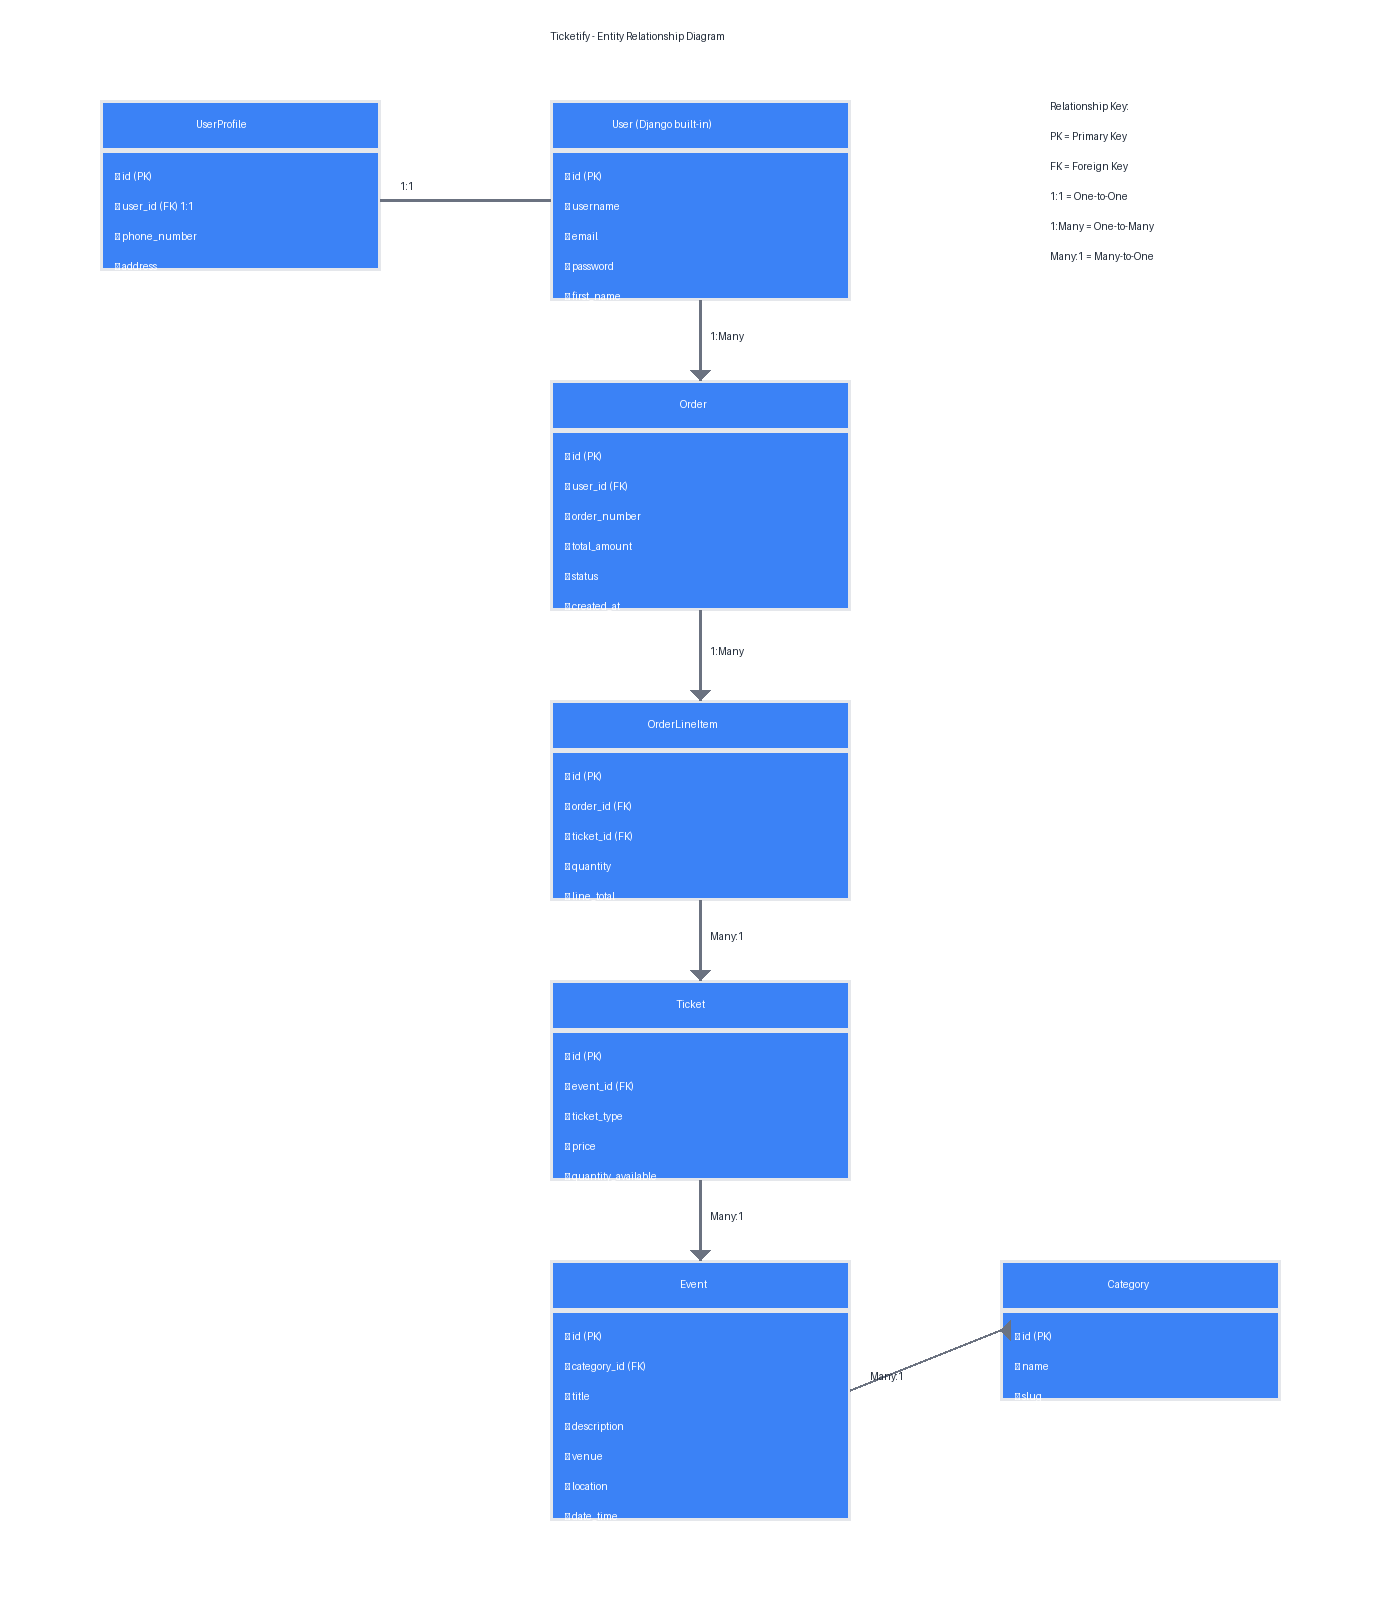
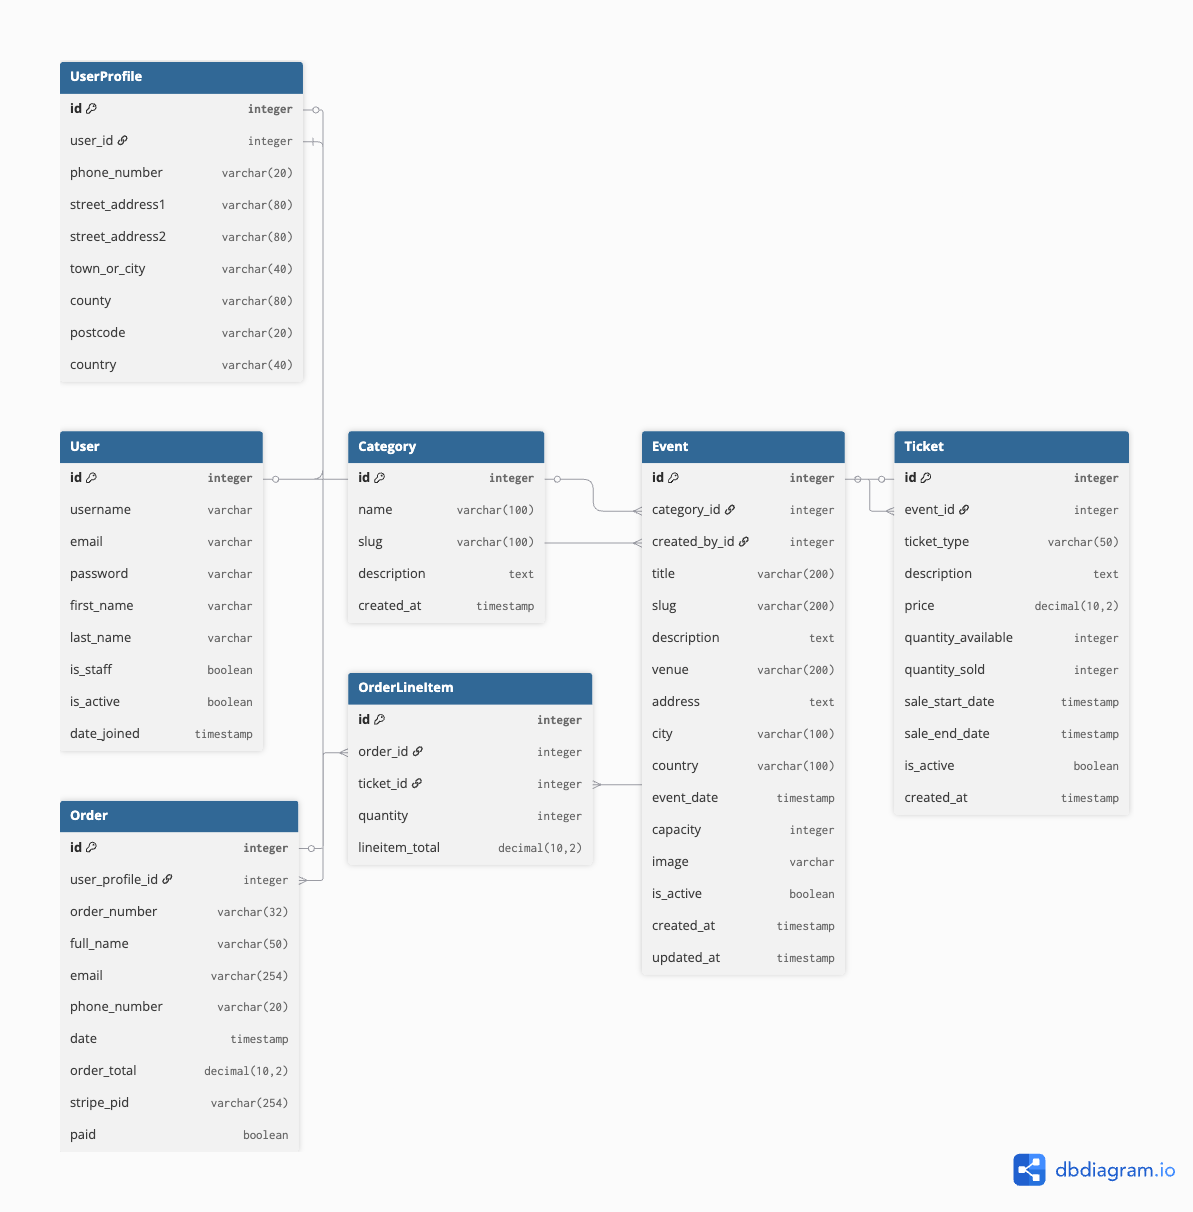
Updated ERD and Wireframes.

diff --git a/README.md b/README.md
@@ -300,15 +300,15 @@ Wireframes were created to plan the user interface and demonstrate responsive la
 
 **Desktop View**
 
-![Homepage Desktop](docs/wireframes/01_homepage_desktop.png)
+![Homepage Desktop](docs/wireframes/desktop.png)
 
 **Tablet View**
 
-![Homepage Tablet](docs/wireframes/02_homepage_tablet.png)
+![Homepage Tablet](docs/wireframes/tablet.png)
 
 **Mobile View**
 
-![Homepage Mobile](docs/wireframes/03_homepage_mobile.png)
+![Homepage Mobile](docs/wireframes/mobile.png)
 
 ### Accessibility Considerations
 
